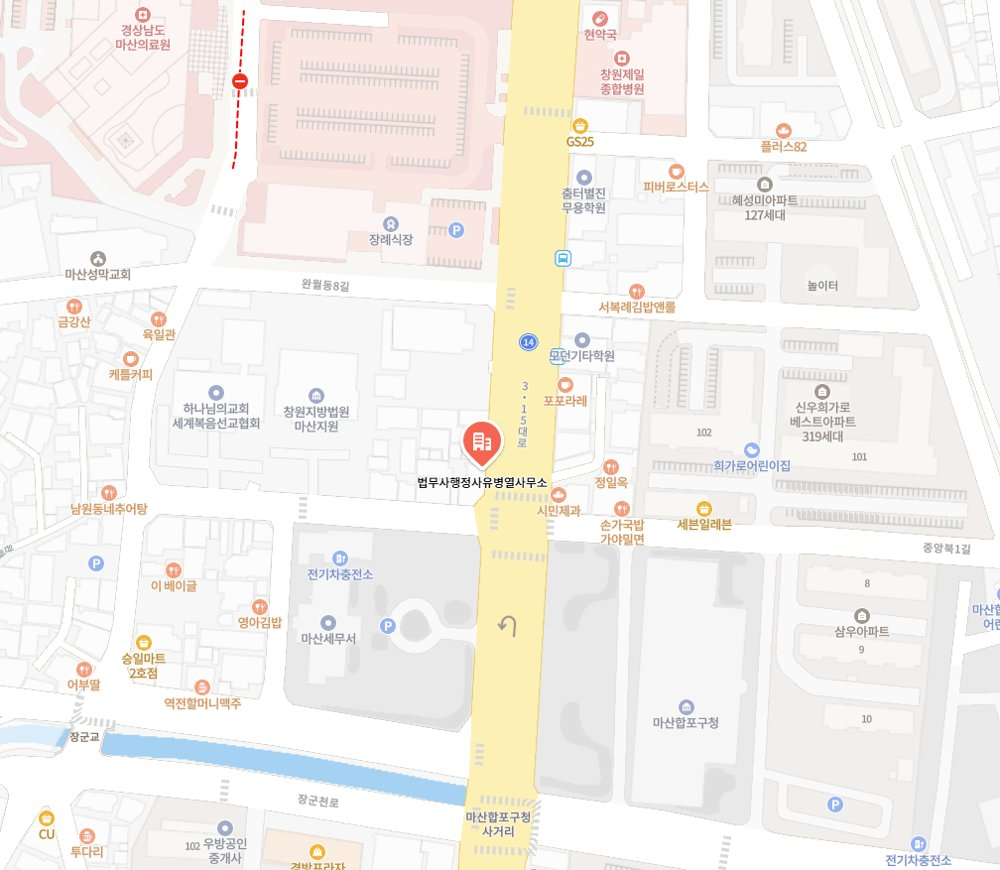
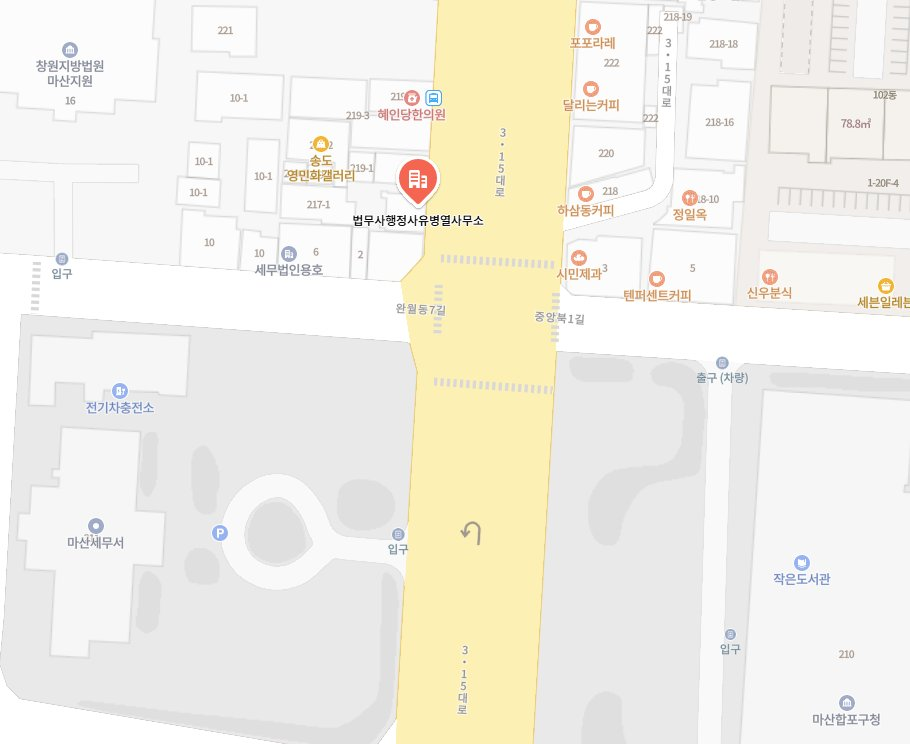
Replace map image with closer view
Claude-Session: https://claude.ai/code/session_01KVrfLXwKum2upQd6wezBkP

diff --git a/index.html b/index.html
@@ -7,8 +7,8 @@
 <meta name="description" content="창원지방법원 마산지원 도보 1분. 부동산 경매입찰·등기, 개인회생·파산, 상속 서류 작성을 법무사·행정사가 직접 상담합니다.">
 <link rel="icon" href="img/emblem.jpg">
 <link rel="stylesheet" href="https://cdn.jsdelivr.net/gh/orioncactus/pretendard@v1.3.9/dist/web/variable/pretendardvariable-dynamic-subset.min.css">
-<link rel="stylesheet" href="style.css?v=20261030i">
-<link rel="stylesheet" href="b.css?v=20261030i">
+<link rel="stylesheet" href="style.css?v=20261030j">
+<link rel="stylesheet" href="b.css?v=20261030j">
 </head>
 <body>
 <header class="nav" id="nav">
@@ -77,7 +77,7 @@
       <p class="sub">창원시 마산합포구 3·15대로변, 창원지방법원 마산지원에서 도보 1분 거리입니다.</p>
       <div class="cta" style="margin-top:24px"><a class="btn" href="https://map.naver.com/p/search/%EB%B2%95%EB%AC%B4%EC%82%AC%20%ED%96%89%EC%A0%95%EC%82%AC%20%EC%9C%A0%EB%B3%91%EC%97%B4%20%EC%82%AC%EB%AC%B4%EC%86%8C" target="_blank" rel="noopener">네이버 지도에서 보기</a><a class="btn btn-ghost" href="contact.html">연락처 보기</a></div>
     </div>
-    <a class="map reveal" href="https://map.naver.com/p/search/%EB%B2%95%EB%AC%B4%EC%82%AC%20%ED%96%89%EC%A0%95%EC%82%AC%20%EC%9C%A0%EB%B3%91%EC%97%B4%20%EC%82%AC%EB%AC%B4%EC%86%8C" target="_blank" rel="noopener" aria-label="네이버 지도에서 사무소 위치 보기"><img src="img/map.jpg?v=20261030i" alt="사무소 위치 지도" loading="lazy"></a>
+    <a class="map reveal" href="https://map.naver.com/p/search/%EB%B2%95%EB%AC%B4%EC%82%AC%20%ED%96%89%EC%A0%95%EC%82%AC%20%EC%9C%A0%EB%B3%91%EC%97%B4%20%EC%82%AC%EB%AC%B4%EC%86%8C" target="_blank" rel="noopener" aria-label="네이버 지도에서 사무소 위치 보기"><img src="img/map.jpg?v=20261030j" alt="사무소 위치 지도" loading="lazy"></a>
   </div>
 </section>
 
@@ -92,7 +92,7 @@
   </div>
 </footer>
 <div class="fabs"><a href="tel:0552862064" data-pop="call">전화 상담</a><a href="sms:01000000000" data-pop="sms">문자 상담</a></div>
-<script src="pop.js?v=20261030i"></script>
-<script src="b.js?v=20261030i"></script>
+<script src="pop.js?v=20261030j"></script>
+<script src="b.js?v=20261030j"></script>
 </body>
 </html>

diff --git a/contact.html b/contact.html
@@ -7,8 +7,8 @@
 <meta name="description" content="유병열 법무사·행정사 사무소 연락처와 오시는 길.">
 <link rel="icon" href="img/emblem.jpg">
 <link rel="stylesheet" href="https://cdn.jsdelivr.net/gh/orioncactus/pretendard@v1.3.9/dist/web/variable/pretendardvariable-dynamic-subset.min.css">
-<link rel="stylesheet" href="style.css?v=20261030i">
-<link rel="stylesheet" href="b.css?v=20261030i">
+<link rel="stylesheet" href="style.css?v=20261030j">
+<link rel="stylesheet" href="b.css?v=20261030j">
 </head>
 <body>
 <header class="nav" id="nav">
@@ -35,7 +35,7 @@
     <div class="cta"><a class="btn" href="tel:0552862064" data-pop="call">전화 상담</a><a class="btn" href="sms:01000000000" data-pop="sms">문자 상담</a><a class="btn btn-ghost" href="https://map.naver.com/p/search/%EB%B2%95%EB%AC%B4%EC%82%AC%20%ED%96%89%EC%A0%95%EC%82%AC%20%EC%9C%A0%EB%B3%91%EC%97%B4%20%EC%82%AC%EB%AC%B4%EC%86%8C" target="_blank" rel="noopener">네이버 지도</a></div>
     <p class="note" style="margin-top:20px">상담 비용은 <a class="tl" href="fees.html">비용 안내</a>에서 확인하실 수 있어요.</p>
   </div>
-  <a class="map reveal" href="https://map.naver.com/p/search/%EB%B2%95%EB%AC%B4%EC%82%AC%20%ED%96%89%EC%A0%95%EC%82%AC%20%EC%9C%A0%EB%B3%91%EC%97%B4%20%EC%82%AC%EB%AC%B4%EC%86%8C" target="_blank" rel="noopener" aria-label="네이버 지도에서 사무소 위치 보기"><img src="img/map.jpg?v=20261030i" alt="사무소 위치 지도" loading="lazy"></a>
+  <a class="map reveal" href="https://map.naver.com/p/search/%EB%B2%95%EB%AC%B4%EC%82%AC%20%ED%96%89%EC%A0%95%EC%82%AC%20%EC%9C%A0%EB%B3%91%EC%97%B4%20%EC%82%AC%EB%AC%B4%EC%86%8C" target="_blank" rel="noopener" aria-label="네이버 지도에서 사무소 위치 보기"><img src="img/map.jpg?v=20261030j" alt="사무소 위치 지도" loading="lazy"></a>
 </div></section>
 </main>
 <footer class="footer">
@@ -48,7 +48,7 @@
   </div>
 </footer>
 <div class="fabs"><a href="tel:0552862064" data-pop="call">전화 상담</a><a href="sms:01000000000" data-pop="sms">문자 상담</a></div>
-<script src="pop.js?v=20261030i"></script>
-<script src="b.js?v=20261030i"></script>
+<script src="pop.js?v=20261030j"></script>
+<script src="b.js?v=20261030j"></script>
 </body>
 </html>

diff --git a/fees.html b/fees.html
@@ -7,8 +7,8 @@
 <meta name="description" content="법무사보수표 기준 예상 보수 계산기와 상담 비용 안내.">
 <link rel="icon" href="img/emblem.jpg">
 <link rel="stylesheet" href="https://cdn.jsdelivr.net/gh/orioncactus/pretendard@v1.3.9/dist/web/variable/pretendardvariable-dynamic-subset.min.css">
-<link rel="stylesheet" href="style.css?v=20261030i">
-<link rel="stylesheet" href="b.css?v=20261030i">
+<link rel="stylesheet" href="style.css?v=20261030j">
+<link rel="stylesheet" href="b.css?v=20261030j">
 </head>
 <body>
 <header class="nav" id="nav">
@@ -53,7 +53,7 @@
   </div>
 </footer>
 <div class="fabs"><a href="tel:0552862064" data-pop="call">전화 상담</a><a href="sms:01000000000" data-pop="sms">문자 상담</a></div>
-<script src="pop.js?v=20261030i"></script>
-<script src="calc.js?v=20261030i"></script><script src="main.js?v=20261030i"></script>
+<script src="pop.js?v=20261030j"></script>
+<script src="calc.js?v=20261030j"></script><script src="main.js?v=20261030j"></script>
 </body>
 </html>

diff --git a/legal.html b/legal.html
@@ -7,8 +7,8 @@
 <meta name="description" content="부동산 경매입찰·등기, 개인회생·파산, 상속 서류 작성 등 법무사 업무 안내.">
 <link rel="icon" href="img/emblem.jpg">
 <link rel="stylesheet" href="https://cdn.jsdelivr.net/gh/orioncactus/pretendard@v1.3.9/dist/web/variable/pretendardvariable-dynamic-subset.min.css">
-<link rel="stylesheet" href="style.css?v=20261030i">
-<link rel="stylesheet" href="b.css?v=20261030i">
+<link rel="stylesheet" href="style.css?v=20261030j">
+<link rel="stylesheet" href="b.css?v=20261030j">
 </head>
 <body>
 <header class="nav" id="nav">
@@ -39,7 +39,7 @@
   </div>
 </footer>
 <div class="fabs"><a href="tel:0552862064" data-pop="call">전화 상담</a><a href="sms:01000000000" data-pop="sms">문자 상담</a></div>
-<script src="pop.js?v=20261030i"></script>
-<script src="b.js?v=20261030i"></script>
+<script src="pop.js?v=20261030j"></script>
+<script src="b.js?v=20261030j"></script>
 </body>
 </html>

diff --git a/about.html b/about.html
@@ -7,8 +7,8 @@
 <meta name="description" content="유병열 법무사·행정사 대표 소개와 사무소 안내. 경남지방법무사회 소속.">
 <link rel="icon" href="img/emblem.jpg">
 <link rel="stylesheet" href="https://cdn.jsdelivr.net/gh/orioncactus/pretendard@v1.3.9/dist/web/variable/pretendardvariable-dynamic-subset.min.css">
-<link rel="stylesheet" href="style.css?v=20261030i">
-<link rel="stylesheet" href="b.css?v=20261030i">
+<link rel="stylesheet" href="style.css?v=20261030j">
+<link rel="stylesheet" href="b.css?v=20261030j">
 </head>
 <body>
 <header class="nav" id="nav">
@@ -57,7 +57,7 @@
   </div>
 </footer>
 <div class="fabs"><a href="tel:0552862064" data-pop="call">전화 상담</a><a href="sms:01000000000" data-pop="sms">문자 상담</a></div>
-<script src="pop.js?v=20261030i"></script>
-<script src="b.js?v=20261030i"></script>
+<script src="pop.js?v=20261030j"></script>
+<script src="b.js?v=20261030j"></script>
 </body>
 </html>

diff --git a/admin.html b/admin.html
@@ -7,8 +7,8 @@
 <meta name="description" content="행정심판 청구서 작성, 각종 인허가·신고 서류 작성 등 행정사 업무 안내.">
 <link rel="icon" href="img/emblem.jpg">
 <link rel="stylesheet" href="https://cdn.jsdelivr.net/gh/orioncactus/pretendard@v1.3.9/dist/web/variable/pretendardvariable-dynamic-subset.min.css">
-<link rel="stylesheet" href="style.css?v=20261030i">
-<link rel="stylesheet" href="b.css?v=20261030i">
+<link rel="stylesheet" href="style.css?v=20261030j">
+<link rel="stylesheet" href="b.css?v=20261030j">
 </head>
 <body>
 <header class="nav" id="nav">
@@ -37,7 +37,7 @@
   </div>
 </footer>
 <div class="fabs"><a href="tel:0552862064" data-pop="call">전화 상담</a><a href="sms:01000000000" data-pop="sms">문자 상담</a></div>
-<script src="pop.js?v=20261030i"></script>
-<script src="b.js?v=20261030i"></script>
+<script src="pop.js?v=20261030j"></script>
+<script src="b.js?v=20261030j"></script>
 </body>
 </html>

diff --git a/cases.html b/cases.html
@@ -7,8 +7,8 @@
 <meta name="description" content="유병열 법무사·행정사 사무소의 처리 사례와 블로그.">
 <link rel="icon" href="img/emblem.jpg">
 <link rel="stylesheet" href="https://cdn.jsdelivr.net/gh/orioncactus/pretendard@v1.3.9/dist/web/variable/pretendardvariable-dynamic-subset.min.css">
-<link rel="stylesheet" href="style.css?v=20261030i">
-<link rel="stylesheet" href="b.css?v=20261030i">
+<link rel="stylesheet" href="style.css?v=20261030j">
+<link rel="stylesheet" href="b.css?v=20261030j">
 </head>
 <body>
 <header class="nav" id="nav">
@@ -36,7 +36,7 @@
   </div>
 </footer>
 <div class="fabs"><a href="tel:0552862064" data-pop="call">전화 상담</a><a href="sms:01000000000" data-pop="sms">문자 상담</a></div>
-<script src="pop.js?v=20261030i"></script>
-<script src="b.js?v=20261030i"></script>
+<script src="pop.js?v=20261030j"></script>
+<script src="b.js?v=20261030j"></script>
 </body>
 </html>

diff --git a/tools/gen.py b/tools/gen.py
@@ -2,7 +2,7 @@
 import os
 OUT = os.path.dirname(os.path.dirname(os.path.abspath(__file__)))
 TEL = '055-286-2064'
-VER = '20261030i'  # 정적 파일 캐시를 깨기 위한 버전. 파일을 고칠 때 값을 바꾼다.
+VER = '20261030j'  # 정적 파일 캐시를 깨기 위한 버전. 파일을 고칠 때 값을 바꾼다.
 NAV = [('about.html','사무소 소개'),('legal.html','법무사 업무'),('admin.html','행정사 업무'),
        ('fees.html','비용 안내'),('cases.html','사례·후기'),('contact.html','상담 문의')]
 MAP = 'https://map.naver.com/p/search/%EB%B2%95%EB%AC%B4%EC%82%AC%20%ED%96%89%EC%A0%95%EC%82%AC%20%EC%9C%A0%EB%B3%91%EC%97%B4%20%EC%82%AC%EB%AC%B4%EC%86%8C'
